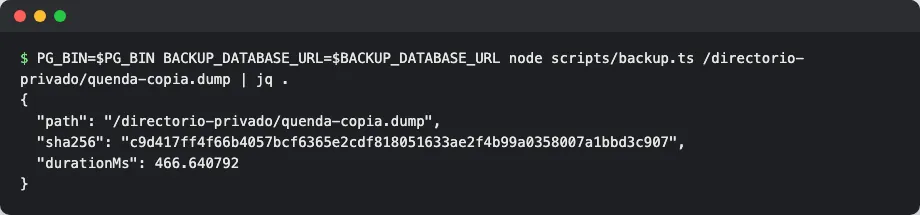
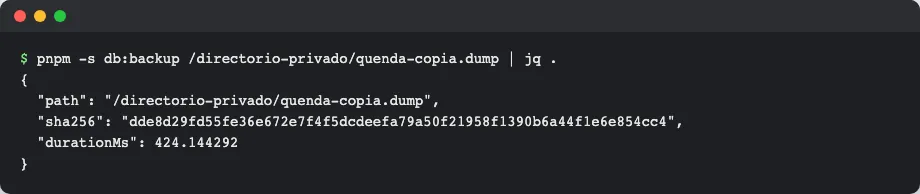
docs(capturas): show CU-22 pnpm recovery commands and number captures in reading order

Changed region(s): [[0.0304, 0.4948, 0.7609, 0.8041], [0.0, 0.2165, 0.8826, 0.4948], [0.0, 0.0309, 0.0913, 0.1237]]

diff --git a/web/docs-capture/cu-22-recuperar-instancia.spec.ts b/web/docs-capture/cu-22-recuperar-instancia.spec.ts
@@ -4,6 +4,7 @@ import path from "node:path";
 import pg from "pg";
 import { access, Capture, expect, test } from "./capture";
 import {
+  type Command,
   closeSql,
   command,
   privacyMunicipality,
@@ -72,21 +73,28 @@ test("CU-22 recuperar una instancia sin rehabilitar datos restringidos", async (
     ).status(),
   ).toBe(201);
 
+  // Commands run in the order an operator would; the terminal images are
+  // drawn afterwards in the order the guide shows them (main flow first).
+  const shots: [string, Command][] = [];
+  const dump = path.join(directory, "quenda-copia.dump");
+  const journal = path.join(directory, "privacidad.json");
+  const wrong = "0".repeat(64);
+  const authorization = "Autorización de recuperación OP-2026/12";
   try {
     // Paso 1: copia lógica de la base de datos.
     const backup = await command(
-      ["scripts/backup.ts", path.join(directory, "quenda-copia.dump")],
+      ["scripts/backup.ts", dump],
       { PG_BIN: bin, BACKUP_DATABASE_URL: databases.administration },
-      `PG_BIN=$PG_BIN BACKUP_DATABASE_URL=$BACKUP_DATABASE_URL node scripts/backup.ts ${shown}/quenda-copia.dump | jq .`,
+      `pnpm -s db:backup ${shown}/quenda-copia.dump | jq .`,
       redact,
       undefined,
       true,
     );
     expect(backup.code).toBe(0);
-    await cu.terminal(page, "copia", backup.shown, backup.output);
-    const { sha256: backupHash } = JSON.parse(
-      backup.output.replaceAll(shown, directory),
-    ) as { sha256: string };
+    shots.push(["copia", backup]);
+    const { sha256: backupHash } = JSON.parse(backup.output) as {
+      sha256: string;
+    };
 
     // Después de la copia, el personal de privacidad suprime un perfil.
     const erased = await privacy.api.post(
@@ -102,70 +110,53 @@ test("CU-22 recuperar una instancia sin rehabilitar datos restringidos", async (
       },
     );
     expect(erased.ok(), await erased.text()).toBe(true);
-    expect((await erased.json()).status).toBe("APPLIED");
+    expect(((await erased.json()) as { status: string }).status).toBe(
+      "APPLIED",
+    );
 
     // Paso 2: checkpoint de privacidad, guardado fuera de las copias.
     const checkpoint = await command(
-      [
-        "scripts/privacy-checkpoint.ts",
-        path.join(directory, "privacidad.json"),
-      ],
+      ["scripts/privacy-checkpoint.ts", journal],
       { MIGRATION_DATABASE_URL: databases.migration },
-      `MIGRATION_DATABASE_URL=$MIGRATION_DATABASE_URL node scripts/privacy-checkpoint.ts ${shown}/privacidad.json | jq .`,
+      `pnpm -s privacy:checkpoint ${shown}/privacidad.json | jq .`,
       redact,
       undefined,
       true,
     );
     expect(checkpoint.code).toBe(0);
-    await cu.terminal(page, "checkpoint", checkpoint.shown, checkpoint.output);
+    shots.push(["checkpoint", checkpoint]);
     const { sha256: checkpointHash } = JSON.parse(checkpoint.output) as {
       sha256: string;
     };
 
-    // Alternativa: un checksum que no coincide impide restaurar.
+    // Alternativa: un checksum que no coincide impide restaurar (se ejecuta
+    // antes de crear la base para que el rechazo sea solo por el checksum).
     const restoreEnv = {
       PG_BIN: bin,
       RESTORE_ADMIN_DATABASE_URL: databases.administration,
     };
-    const wrong = "0".repeat(64);
     const rejected = await command(
-      [
-        "scripts/restore.ts",
-        path.join(directory, "quenda-copia.dump"),
-        wrong,
-        target,
-      ],
+      ["scripts/restore.ts", dump, wrong, target],
       restoreEnv,
-      `PG_BIN=$PG_BIN RESTORE_ADMIN_DATABASE_URL=$RESTORE_ADMIN_DATABASE_URL node scripts/restore.ts ${shown}/quenda-copia.dump ${wrong} ${target}`,
+      `pnpm -s db:restore ${shown}/quenda-copia.dump ${wrong} ${target}`,
       redact,
     );
     expect(rejected.code).not.toBe(0);
-    await cu.terminal(
-      page,
-      "restaurar-checksum-erroneo",
-      rejected.shown,
-      rejected.output,
-    );
 
     // Paso 3: restaurar en una base nueva, cerrada al acceso ordinario.
     const restored = await command(
-      [
-        "scripts/restore.ts",
-        path.join(directory, "quenda-copia.dump"),
-        backupHash,
-        target,
-      ],
+      ["scripts/restore.ts", dump, backupHash, target],
       restoreEnv,
-      `PG_BIN=$PG_BIN RESTORE_ADMIN_DATABASE_URL=$RESTORE_ADMIN_DATABASE_URL node scripts/restore.ts ${shown}/quenda-copia.dump ${backupHash} ${target} | jq .`,
+      `pnpm -s db:restore ${shown}/quenda-copia.dump ${backupHash} ${target} | jq .`,
       redact,
       undefined,
       true,
     );
     expect(restored.code).toBe(0);
     expect(restored.output).toContain("RESTORED_CLOSED");
-    await cu.terminal(page, "restaurar", restored.shown, restored.output);
+    shots.push(["restaurar", restored]);
 
-    // El rol de la aplicación no puede conectarse a la base restaurada.
+    // Paso 4: el rol de la aplicación no puede conectarse a la base restaurada.
     const psql = path.join(bin, "psql");
     const closed = await command(
       [restoredDomain, "-c", "SELECT 1"],
@@ -175,89 +166,81 @@ test("CU-22 recuperar una instancia sin rehabilitar datos restringidos", async (
       psql,
     );
     expect(closed.code).not.toBe(0);
-    await cu.terminal(page, "destino-cerrado", closed.shown, closed.output);
+    shots.push(["destino-cerrado", closed]);
 
-    // La copia antigua conserva el perfil suprimido después de la copia.
-    const inspect = (slug: string) =>
-      command(
-        [
-          restoredAdmin,
-          "-c",
-          `SELECT count(*) AS perfiles FROM domain.municipal_profile WHERE account_id='${martino.accountId}'`,
-          "-c",
-          "SELECT domain.privacy_operational() AS servicio_habilitado",
-          "-c",
-          `SELECT category, retention_days, revoked_at IS NOT NULL AS retirada FROM domain.retention_policy WHERE tenant_id='${tenantId}'`,
-        ],
+    // Paso 5: la copia antigua conserva el perfil suprimido después de la copia.
+    const queries = [
+      `SELECT count(*) AS perfiles FROM domain.municipal_profile WHERE account_id='${martino.accountId}'`,
+      "SELECT domain.privacy_operational() AS servicio_habilitado",
+      `SELECT category, retention_days, revoked_at IS NOT NULL AS retirada FROM domain.retention_policy WHERE tenant_id='${tenantId}'`,
+    ];
+    const inspect = async () => {
+      const result = await command(
+        [restoredAdmin, ...queries.flatMap((query) => ["-c", query])],
         { RESTORE_ADMIN_DATABASE_URL: restoredAdmin },
-        `psql "$RESTORE_ADMIN_DATABASE_URL" \\\n  -c "SELECT count(*) AS perfiles FROM domain.municipal_profile WHERE account_id='${martino.accountId}'" \\\n  -c "SELECT domain.privacy_operational() AS servicio_habilitado" \\\n  -c "SELECT category, retention_days, revoked_at IS NOT NULL AS retirada FROM domain.retention_policy WHERE tenant_id='${tenantId}'"`,
+        `psql "$RESTORE_ADMIN_DATABASE_URL" \\\n${queries
+          .map((query) => `  -c "${query}"`)
+          .join(" \\\n")}`,
         redact,
         psql,
-      ).then(async (result) => {
-        expect(result.code).toBe(0);
-        await cu.terminal(page, slug, result.shown, result.output);
-        return result;
-      });
-    const before = await inspect("copia-antigua");
+      );
+      expect(result.code).toBe(0);
+      return result;
+    };
+    const before = await inspect();
     expect(before.output).toMatch(/perfiles\s*\n-+\n\s*1\n/);
+    shots.push(["copia-antigua", before]);
 
     // Alternativa: un checkpoint que no coincide deja el destino cerrado.
     const reconcileEnv = { RESTORE_ADMIN_DATABASE_URL: restoredAdmin };
     const stale = await command(
-      [
-        "scripts/privacy-restore-reconcile.ts",
-        path.join(directory, "privacidad.json"),
-        wrong,
-        "Autorización de recuperación OP-2026/12",
-      ],
+      ["scripts/privacy-restore-reconcile.ts", journal, wrong, authorization],
       reconcileEnv,
-      `RESTORE_ADMIN_DATABASE_URL=$RESTORE_ADMIN_DATABASE_URL node scripts/privacy-restore-reconcile.ts ${shown}/privacidad.json ${wrong} "Autorización de recuperación OP-2026/12"`,
+      `pnpm -s privacy:restore-reconcile ${shown}/privacidad.json ${wrong} "${authorization}"`,
       redact,
     );
     expect(stale.code).not.toBe(0);
-    await cu.terminal(
-      page,
-      "checkpoint-no-coincide",
-      stale.shown,
-      stale.output,
-    );
 
-    // Paso 4: reproducir las actuaciones de privacidad posteriores a la copia.
+    // Paso 6: reproducir las actuaciones de privacidad posteriores a la copia.
     const replay = await command(
       [
         "scripts/privacy-restore-reconcile.ts",
-        path.join(directory, "privacidad.json"),
+        journal,
         checkpointHash,
-        "Autorización de recuperación OP-2026/12",
+        authorization,
       ],
       reconcileEnv,
-      `RESTORE_ADMIN_DATABASE_URL=$RESTORE_ADMIN_DATABASE_URL node scripts/privacy-restore-reconcile.ts ${shown}/privacidad.json ${checkpointHash} "Autorización de recuperación OP-2026/12" | jq .`,
+      `pnpm -s privacy:restore-reconcile ${shown}/privacidad.json ${checkpointHash} "${authorization}" | jq .`,
       redact,
       undefined,
       true,
     );
     expect(replay.code).toBe(0);
     expect(replay.output).toContain('"reopeningAuthorized": false');
-    await cu.terminal(
-      page,
-      "reproducir-privacidad",
-      replay.shown,
-      replay.output,
-    );
-    const after = await inspect("tras-reproducir");
-    expect(after.output).toMatch(/perfiles\s*\n-+\n\s*0\n/);
+    shots.push(["reproducir-privacidad", replay]);
 
-    // Paso 5: conciliación de integridad antes de decidir la reapertura.
+    // Paso 7: el perfil suprimido vuelve a faltar y la política queda retirada.
+    const after = await inspect();
+    expect(after.output).toMatch(/perfiles\s*\n-+\n\s*0\n/);
+    shots.push(["tras-reproducir", after]);
+
+    // Paso 8: conciliación de integridad antes de decidir la reapertura.
     const review = await command(
       ["scripts/reconcile.ts"],
       reconcileEnv,
-      "RESTORE_ADMIN_DATABASE_URL=$RESTORE_ADMIN_DATABASE_URL node scripts/reconcile.ts | jq .",
+      "pnpm -s db:reconcile | jq .",
       redact,
       undefined,
       true,
     );
     expect(review.output).toContain("CHECKED_REQUIRES_REVIEW");
-    await cu.terminal(page, "conciliar", review.shown, review.output);
+    shots.push(["conciliar", review]);
+
+    // Alternativas, en el orden de la guía.
+    shots.push(["restaurar-checksum-erroneo", rejected]);
+    shots.push(["checkpoint-no-coincide", stale]);
+    for (const [slug, result] of shots)
+      await cu.terminal(page, slug, result.shown, result.output);
   } finally {
     const admin = new pg.Client({
       connectionString: databases.administration,
